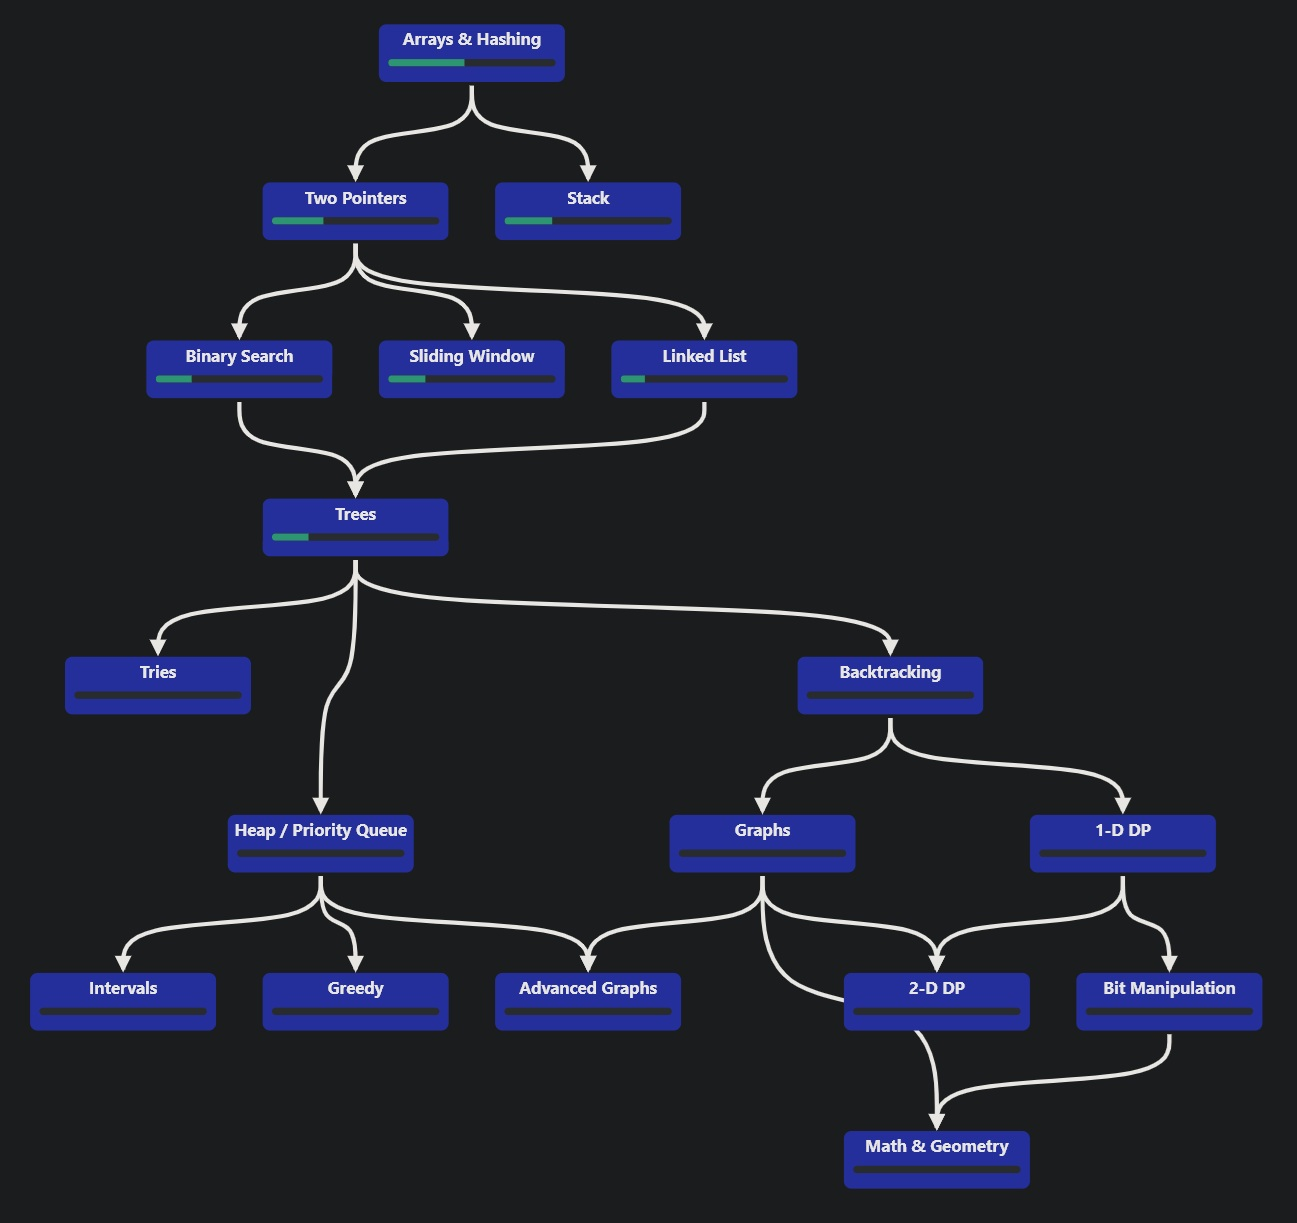
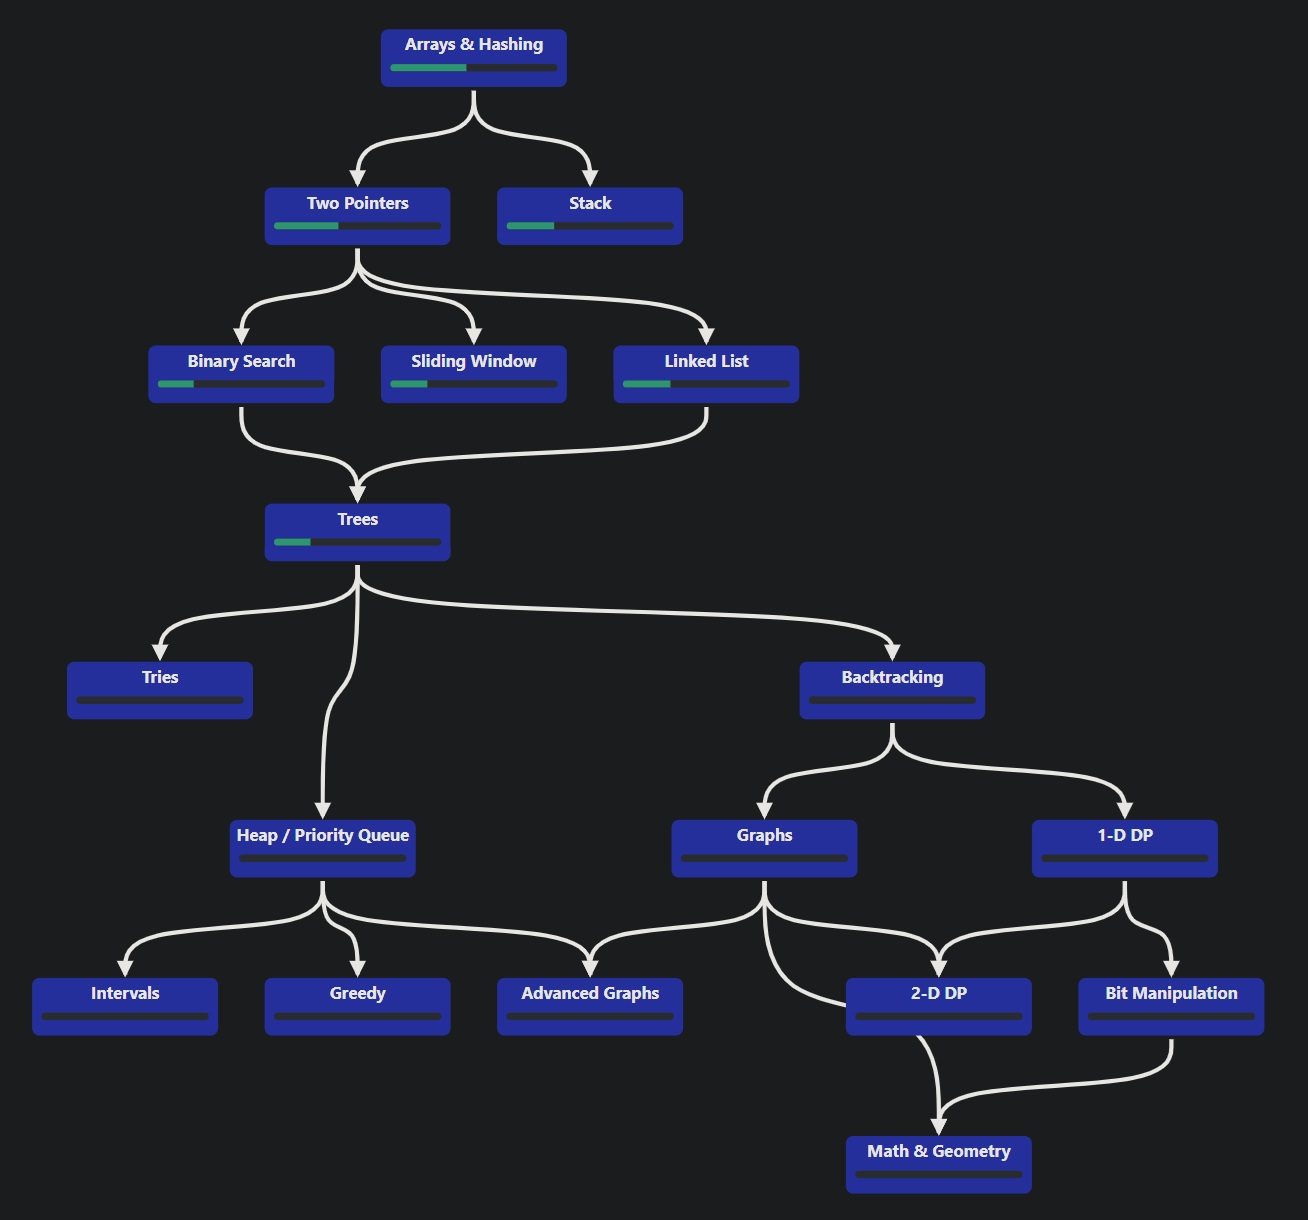
Add solutions

Changed region(s): [[0.0308, 0.0, 0.9869, 0.9967], [0.2467, 0.5295, 0.2776, 0.5918]]

diff --git a/Linked-List/Reorder-Linked-List.py b/Linked-List/Reorder-Linked-List.py
@@ -1,0 +1,47 @@
+from typing import Optional
+
+class ListNode:
+    def __init__(self, val=0, next=None):
+        self.val = val
+        self.next = next
+
+class Solution:
+    def reorderList(self, head: Optional[ListNode]) -> None:
+        
+        # Get the midpoint, slow will be the last val in sectioned lists
+        slow, fast = head, head.next      # type: ignore
+        while fast and fast.next:
+            slow = slow.next      # type: ignore
+            fast = fast.next.next
+
+        # Separate the lists
+        head2 = slow.next      # type: ignore
+        slow.next = None      # type: ignore
+
+        # Reverse the second list
+        prev = None
+        while head2:
+            temp = head2.next
+            head2.next = prev
+            prev = head2
+            head2 = temp
+
+        # Reassign for clarity
+        head2 = prev
+
+        # Append to dummy node
+        dummy = tail = ListNode()
+        while head and head2:
+
+            # Left half
+            tail.next = head
+            tail = tail.next
+            head = head.next
+
+            # Right half
+            tail.next = head2
+            tail = tail.next
+            head2 = head2.next
+
+        # Make sure no vals left because of uneven list sectioning (ex if length 5)
+        if head: tail.next = head

diff --git a/Linked-List/Remove-Nth-Node-From-End-Of-List.py b/Linked-List/Remove-Nth-Node-From-End-Of-List.py
@@ -1,0 +1,39 @@
+from typing import Optional
+
+class ListNode:
+    def __init__(self, val=0, next=None):
+        self.val = val
+        self.next = next
+
+class Solution:
+    def removeNthFromEnd(self, head: Optional[ListNode], n: int) -> Optional[ListNode]:
+        
+        # Get length of list
+        length_list = 0 
+
+        node = head
+        while node:
+            length_list += 1
+            node = node.next
+
+        # Navigate to the node, keeping track of the prev
+        prev = None
+        node = head
+        for _ in range(length_list - n):
+            prev = node
+            node = node.next
+
+        # There are four cases at first glance - removing the only node, and then 
+        # one of either removing the node at the start, middle, or end
+
+        # Only one node and the start are technicaly the same case,
+        # since node.next covers returning both None or the next node
+        if prev == None:
+            return node.next
+        
+        # Same as removing in the middle or at end, as this 
+        # correctly updates the prev to either None (if at end)
+        # or the node that follows 
+        else:
+            prev.next = node.next
+            return head
